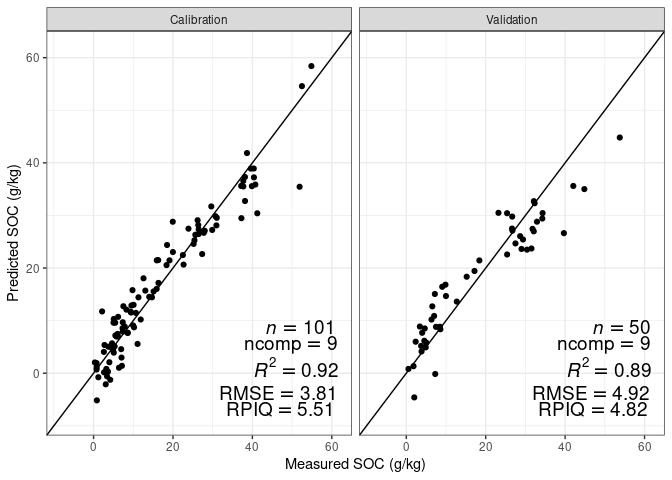
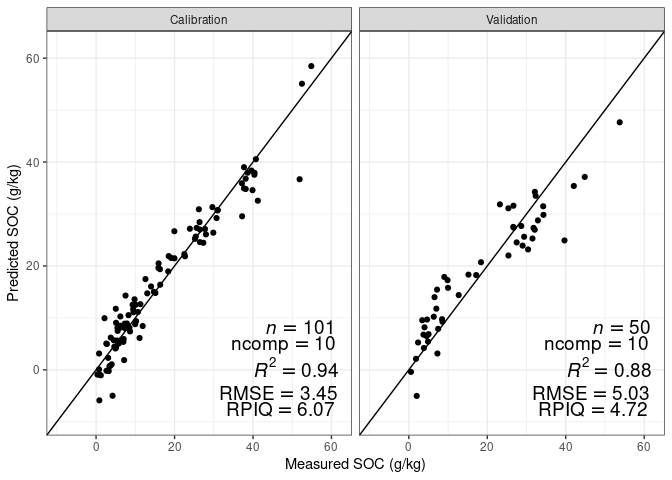
add graph from all raw spectra

diff --git a/README.md b/README.md
@@ -131,6 +131,20 @@ alldata$abs_pre <- alldata$abs |>
 ### Visualization
 
 ``` r
+# all raw spectra
+matplot(x = as.numeric(colnames(alldata$abs)), y = t(alldata$abs),
+        xlab = expression(paste("Wavenumber ", cm^{-1})),
+        ylab = 'Absorbance',
+        type = 'l',
+        lty = 1, 
+        main = "All raw spectra",
+        # ylim = c(0.2, 0.8),
+        xlim = c(7500, 3900))
+```
+
+![](README_files/figure-gfm/unnamed-chunk-7-1.png)<!-- -->
+
+``` r
 # raw absorbance
 matplot(x = as.numeric(colnames(alldata$abs)), y = alldata$abs[1,],
         xlab = expression(paste("Wavenumber ", cm^{-1})),
@@ -142,7 +156,7 @@ matplot(x = as.numeric(colnames(alldata$abs)), y = alldata$abs[1,],
         xlim = c(7500, 3900))
 ```
 
-![](README_files/figure-gfm/unnamed-chunk-7-1.png)<!-- -->
+![](README_files/figure-gfm/unnamed-chunk-7-2.png)<!-- -->
 
 ``` r
 # pre-processed absorbance data
@@ -156,7 +170,7 @@ matplot(x = as.numeric(colnames(alldata$abs_pre)), y = alldata$abs_pre[1,],
         xlim = c(7500, 3900))
 ```
 
-![](README_files/figure-gfm/unnamed-chunk-7-2.png)<!-- -->
+![](README_files/figure-gfm/unnamed-chunk-7-3.png)<!-- -->
 
 ### PLS modeling
 
@@ -195,20 +209,20 @@ pls_model
     ## 
     ## Pre-processing: centered (1727), scaled (1727) 
     ## Resampling: Cross-Validated (10 fold, repeated 1 times) 
-    ## Summary of sample sizes: 135, 137, 135, 136, 136, 137, ... 
+    ## Summary of sample sizes: 135, 135, 137, 136, 136, 137, ... 
     ## Resampling results across tuning parameters:
     ## 
-    ##   ncomp  RMSE       Rsquared   MAE     
-    ##    1     12.080374  0.2543129  9.980546
-    ##    2     11.045275  0.3627028  8.924150
-    ##    3     10.207985  0.4615876  8.374353
-    ##    4      9.509799  0.5400361  7.624794
-    ##    5      8.701943  0.6512763  7.221147
-    ##    6      8.212535  0.6665924  6.969754
-    ##    7      6.674558  0.7897031  5.319061
-    ##    8      5.601007  0.8421400  4.365150
-    ##    9      5.297296  0.8662382  4.134605
-    ##   10      4.813923  0.8872509  3.720502
+    ##   ncomp  RMSE       Rsquared   MAE      
+    ##    1     12.194783  0.2703389  10.110111
+    ##    2     11.199263  0.3537343   9.064490
+    ##    3     10.411479  0.4517312   8.500156
+    ##    4      9.830827  0.5223242   7.771054
+    ##    5      8.776627  0.6479163   7.114029
+    ##    6      8.351405  0.6747369   7.006719
+    ##    7      6.833069  0.7942943   5.353469
+    ##    8      5.941469  0.8389329   4.680693
+    ##    9      5.530052  0.8637208   4.291284
+    ##   10      5.101805  0.8859516   3.870953
     ## 
     ## RMSE was used to select the optimal model using  the one SE rule.
     ## The final value used for the model was ncomp = 10.
@@ -260,23 +274,23 @@ pls_model_iv
     ## 
     ## Pre-processing: centered (1727), scaled (1727) 
     ## Resampling: Cross-Validated (10 fold, repeated 1 times) 
-    ## Summary of sample sizes: 90, 90, 91, 90, 91, 92, ... 
+    ## Summary of sample sizes: 91, 91, 89, 89, 91, 93, ... 
     ## Resampling results across tuning parameters:
     ## 
-    ##   ncomp  RMSE       Rsquared   MAE     
-    ##    1     12.081954  0.2412592  9.949465
-    ##    2     11.203094  0.3548182  9.086711
-    ##    3     10.588919  0.4283982  8.668112
-    ##    4      9.918314  0.5191765  8.025997
-    ##    5      8.703050  0.6175356  7.236534
-    ##    6      8.467155  0.6520597  7.123535
-    ##    7      7.246866  0.7549499  5.891459
-    ##    8      6.293280  0.8163976  5.006314
-    ##    9      5.974449  0.8405760  4.679894
-    ##   10      5.553139  0.8504807  4.321611
+    ##   ncomp  RMSE       Rsquared   MAE      
+    ##    1     12.166871  0.2676957  10.004884
+    ##    2     11.337233  0.3665397   9.287658
+    ##    3     10.891713  0.3922176   9.050040
+    ##    4     10.292070  0.4959643   8.317907
+    ##    5      8.854868  0.6069749   7.368358
+    ##    6      8.296293  0.6484050   7.041157
+    ##    7      7.204397  0.7037970   5.871115
+    ##    8      6.503461  0.7779961   5.170102
+    ##    9      6.485436  0.7922222   5.044982
+    ##   10      5.768311  0.8385277   4.542835
     ## 
     ## RMSE was used to select the optimal model using  the one SE rule.
-    ## The final value used for the model was ncomp = 9.
+    ## The final value used for the model was ncomp = 10.
 
 ![](README_files/figure-gfm/unnamed-chunk-11-1.png)<!-- -->
 
